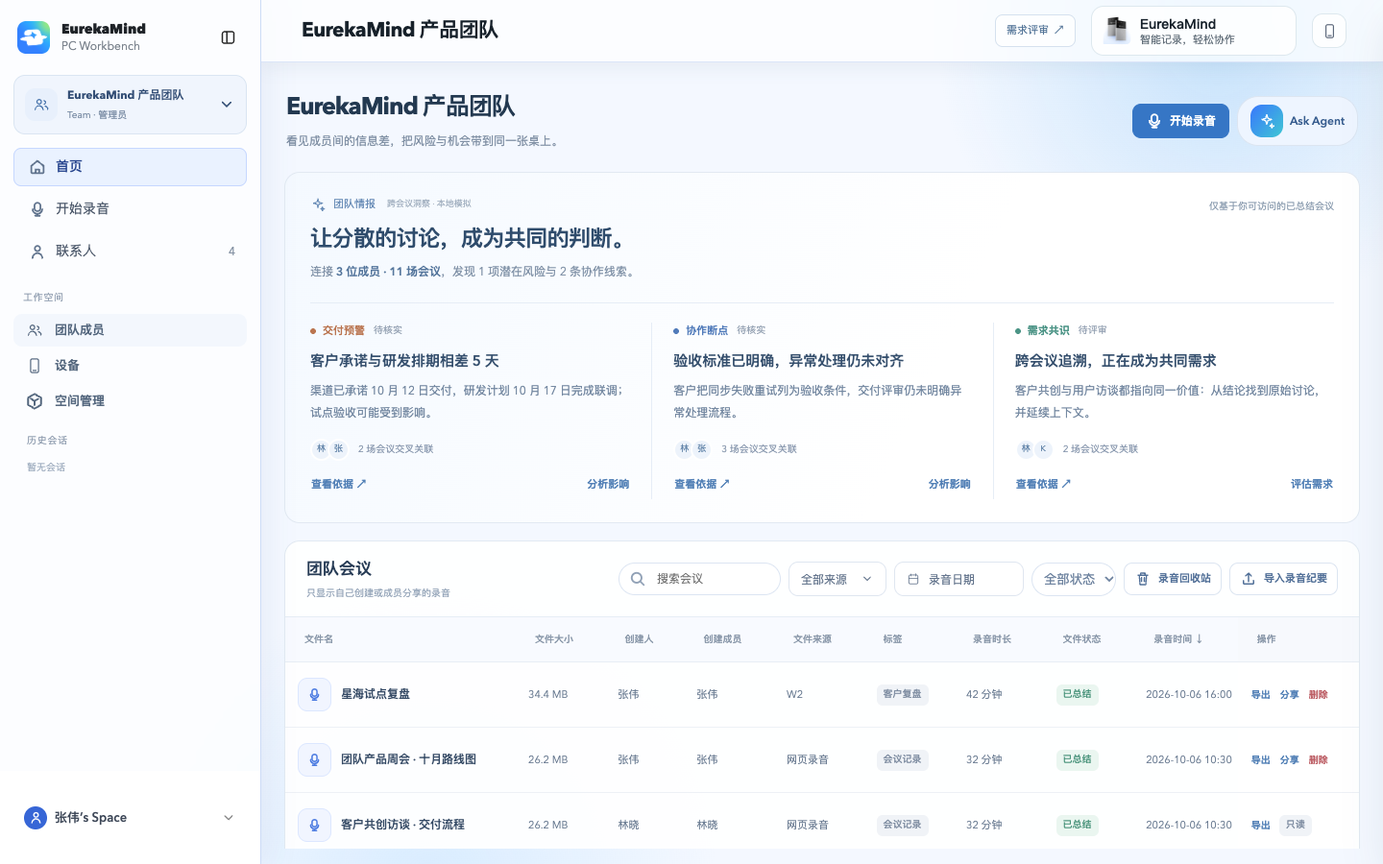
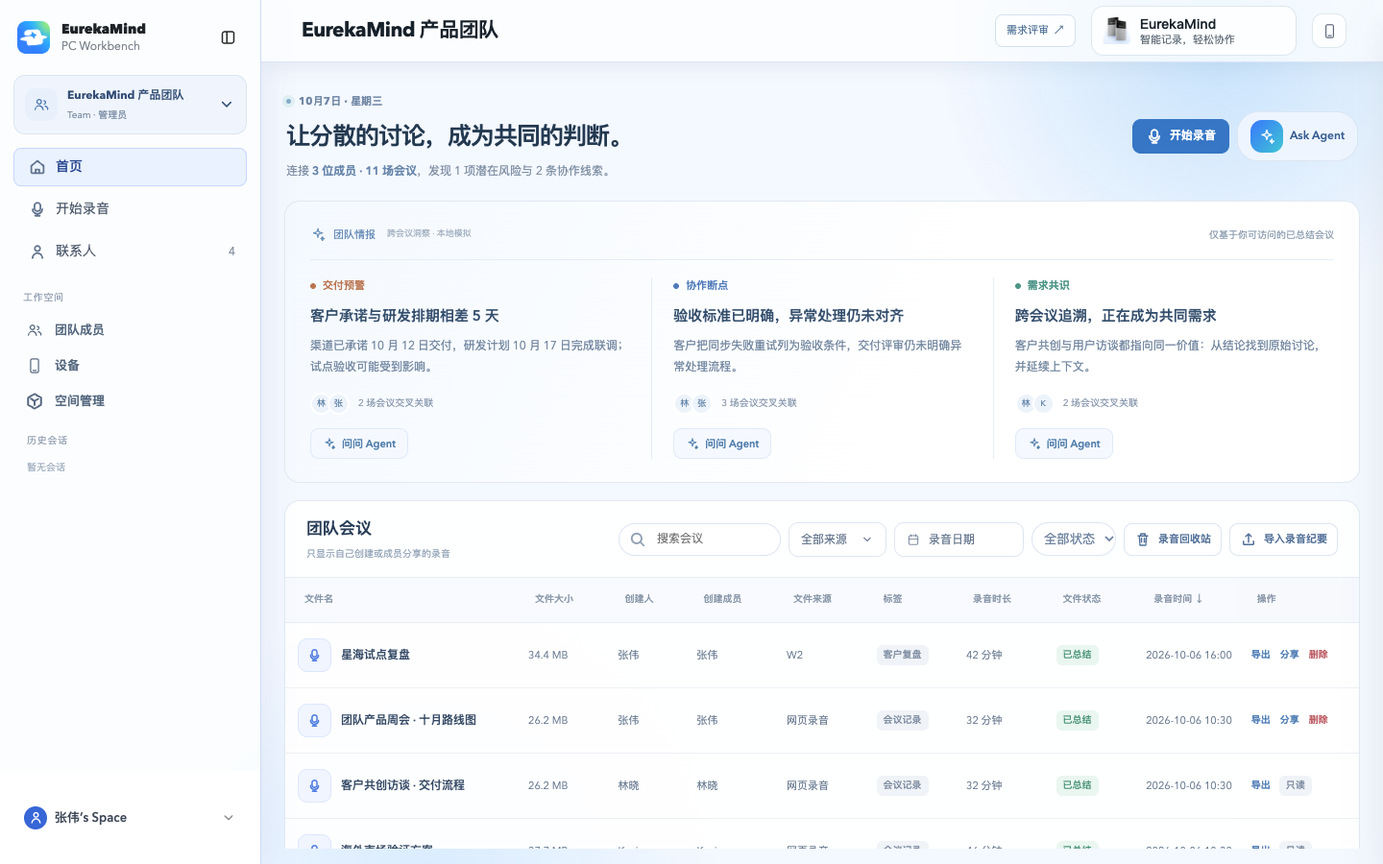
refine: simplify dated team home and unify contextual Agent entry

diff --git a/src/prototype/one-to-one-reference/assets/workspace-ui.js b/src/prototype/one-to-one-reference/assets/workspace-ui.js
@@ -13,7 +13,7 @@
   const btn=(action,label,cls='',value='',extra='')=>`<button type="button" class="ws-btn ${cls}" data-ws-action="${action}" data-value="${esc(value)}" ${extra}>${label}</button>`;
   const badge=(text,kind='')=>`<span class="ws-badge ${kind}">${esc(text)}</span>`;
   const empty=(title,text,action='')=>`<div class="ws-empty">${icon('folder')}<h3>${title}</h3><p>${text}</p>${action}</div>`;
-  let activeHistoryId=null;
+  let activeHistoryId=null,activeInsightId=null;
   let sourceFilter='all',dateFilter='',statusFilter='all',listPage=1,sortKey='created',sortAsc=false,recordingContext=null;
   let savedState=localStorage.getItem(M.KEY), deviceRegistration=null;
   const save=()=>{try{const next=JSON.stringify(data);localStorage.setItem(M.KEY,next);savedState=next;}catch{throw new Error('浏览器存储空间不足，请导出重要资料后重试');}};
@@ -56,7 +56,7 @@
     if(editing){confirm('退出编辑？','未保存的内容会丢失。',()=>{editing=false;switchSpace(uid);});return;}
     if(recordingContext&&!window.RecordingUI?.ended()){confirm('结束当前录音并切换？','尚未保存的演示录音会被放弃。',()=>{window.RecordingUI?.stop();recordingContext=null;switchSpace(uid);});return;}
     window.MeetingDetail?.leaveWorkspace();window.ContactsUI?.leaveWorkspace();
-    M.get(data,uid);mutate(()=>data.activeId=uid);actor=M.SELF;query='';sourceFilter='all';dateFilter='';statusFilter='all';listPage=1;selected=null;filter='all';answer='';draft='';agentOpen=false;activeHistoryId=null;closeMenu();chrome();
+    M.get(data,uid);mutate(()=>data.activeId=uid);actor=M.SELF;query='';sourceFilter='all';dateFilter='';statusFilter='all';listPage=1;selected=null;filter='all';answer='';draft='';agentOpen=false;activeHistoryId=null;activeInsightId=null;closeMenu();chrome();
     if(w().type==='personal'){root.hidden=true;showMainView('home',{silent:true});}else show('overview');
     toast(`已切换至${w().name}`);
   }
@@ -82,23 +82,19 @@
     const columns=filter==='trash'?['文件名','文件大小','文件来源','录音时间','删除时间','操作']:['文件名','文件大小','创建人','创建成员','文件来源','标签','录音时长','文件状态','录音时间','更新时间','操作'];
     return `<div class="ws-table-scroll ws-recording-scroll" role="region" aria-label="团队会议录音列表" tabindex="0"><table class="ws-table ws-recording-table"><thead><tr>${columns.map(t=>`<th>${['录音时间','更新时间'].includes(t)?btn('sort',t+(sortKey===(t==='录音时间'?'created':'updated')?(sortAsc?' ↑':' ↓'):''),'link',t==='录音时间'?'created':'updated'):t}</th>`).join('')}</tr></thead><tbody>${list.slice((listPage-1)*10,listPage*10).map(f=>`<tr><td>${filter==='trash'?esc(f.title):`<button class="ws-file-link" data-ws-action="file" data-value="${esc(f.id)}">${icon('mic')}<strong>${esc(f.title)}</strong></button>`}</td><td>${esc(f.size||'—')}</td>${filter==='trash'?`<td>${esc(f.source)}</td><td>${date(f.created)}</td><td>${date(f.deletedAt)}</td><td><div class="ws-actions">${btn('restore','恢复','link',f.id)}${btn('purge','永久删除','link danger',f.id)}</div></td>`:`<td>${esc(f.creator||userName(f.owner))}</td><td>${esc(userName(f.owner))}</td><td>${esc(f.source)}</td><td>${(f.tags||[]).map(t=>badge(t)).join(' ')}</td><td>${f.duration} 分钟</td><td>${badge(f.status||'已总结','green')}</td><td>${date(f.created)}</td><td>${date(f.updated||f.created)}</td><td><div class="ws-actions">${btn('export','导出','link',f.id)}${f.owner===actor?btn('share','分享','link',f.id)+btn('delete','删除','link danger',f.id):badge('只读')}</div></td>`}</tr>`).join('')}</tbody></table></div>${!list.length?empty(filter==='trash'?'回收站暂无内容':'没有符合条件的会议','调整筛选，或开始一场新的录音。'):''}<div class="ws-table-foot ws-pagination"><span>共 ${list.length} 个会议笔记 · ${listPage} / ${pages} 页</span><div class="ws-actions">${btn('list-prev','上一页','','',listPage<=1?'disabled':'')}${btn('list-next','下一页','','',listPage>=pages?'disabled':'')}</div></div>`;
   }
-  function teamIntelligence(){
-    const report=M.insights(w(),actor),items=report.items;
-    return `<section class="ws-meeting-intelligence ws-surface ws-team-intelligence" aria-label="团队情报"><header class="ws-intelligence-top"><div><div class="ws-intelligence-label">${icon('spark')} 团队情报 <span>跨会议洞察 · 本地模拟</span></div><h2>让分散的讨论，成为共同的判断。</h2><p>连接 <b>${report.members} 位成员 · ${report.meetings} 场会议</b>${items.length?'，发现 '+items.filter(i=>i.kind==='risk').length+' 项潜在风险与 '+items.filter(i=>i.kind!=='risk').length+' 条协作线索。':'，有足够的跨成员依据后，将在这里呈现团队线索。'}</p></div><span class="ws-insight-scope">仅基于你可访问的已总结会议</span></header>${items.length?`<div class="ws-insight-grid">${items.map(i=>`<article class="ws-insight-card ${i.kind}"><div class="ws-insight-category"><span>${i.label}</span><small>${i.kind==='opportunity'?'待评审':'待核实'}</small></div><h3>${esc(i.title)}</h3><p>${esc(i.description)}</p><div class="ws-insight-people">${[...new Set(i.sources.map(e=>e.owner))].map(uid=>`<span class="ws-insight-avatar" title="${esc(userName(uid))}">${esc(userName(uid).slice(0,1))}</span>`).join('')}<span>${i.sources.length} 场会议交叉关联</span></div><footer>${btn('insight-detail','查看依据 ↗','link',i.id)}${btn('meeting-prompt',i.kind==='opportunity'?'评估需求':'分析影响','link',i.title)}</footer></article>`).join('')}</div>`:`<div class="ws-insight-empty">尚无可交叉验证的团队线索。成员分享相关会议后，可连接不同视角；暂无预警不代表不存在风险。</div>`}</section>`;
-  }
-  function insightDetail(id){
-    const i=M.insights(w(),actor).items.find(x=>x.id===id);
-    if(!i)throw new Error('该线索的会议依据已变化，请刷新后查看');
-    modal(esc(i.title),`<div class="ws-insight-detail"><p class="ws-insight-category">${i.label} · ${i.kind==='opportunity'?'待评审':'待核实'} · 本地模拟</p><p>${esc(i.description)}</p><h3>跨会议依据</h3>${i.sources.map(e=>`<article class="ws-evidence"><div><strong>${esc(userName(e.owner))}</strong><time>${date(e.created)}</time></div><blockquote>${esc(e.quote)}</blockquote>${btn('file',esc(e.title)+' ↗','link',e.fileId)}</article>`).join('')}<h3>对团队的影响</h3><p>${esc(i.impact)}</p><h3>建议核实</h3><p>${esc(i.next)}</p><small>会议之间的差异需要人工核实；未推断成员是否已读，也未自动通知任何人。</small></div>`,btn('close-dialog','关闭')+btn('meeting-prompt','交给 Agent 分析','primary',i.title));
+  function teamIntelligence(report){
+    const items=report.items;
+    return `<section class="ws-meeting-intelligence ws-surface ws-team-intelligence" aria-label="团队情报"><header class="ws-intelligence-top"><div class="ws-intelligence-label">${icon('spark')} 团队情报 <span>跨会议洞察 · 本地模拟</span></div><span class="ws-insight-scope">仅基于你可访问的已总结会议</span></header>${items.length?`<div class="ws-insight-grid">${items.map(i=>`<article class="ws-insight-card ${i.kind}"><div class="ws-insight-category"><span>${i.label}</span></div><h3>${esc(i.title)}</h3><p>${esc(i.description)}</p><div class="ws-insight-people">${[...new Set(i.sources.map(e=>e.owner))].map(uid=>`<span class="ws-insight-avatar" title="${esc(userName(uid))}">${esc(userName(uid).slice(0,1))}</span>`).join('')}<span>${i.sources.length} 场会议交叉关联</span></div><footer>${btn('meeting-prompt',icon('spark')+'问问 Agent','ws-insight-ask',i.title,'aria-label="问问 Agent：'+esc(i.title)+'"')}</footer></article>`).join('')}</div>`:`<div class="ws-insight-empty">尚无可交叉验证的团队线索。成员分享相关会议后，可连接不同视角；暂无预警不代表不存在风险。</div>`}</section>`;
   }
   function overview(){
-    return heading(w().name,'看见成员间的信息差，把风险与机会带到同一张桌上。',btn('record',icon('mic')+'开始录音','primary')+btn('agent',`<span class="ws-agent-mark">${icon('spark')}</span>Ask Agent`,'agent'))+
-      (filter!=='trash'?teamIntelligence():'')+
+    const report=M.insights(w(),actor),now=new Date(),dayLabel=now.toLocaleDateString('zh-CN',{month:'long',day:'numeric'})+' · '+now.toLocaleDateString('zh-CN',{weekday:'long'});
+    return `<header class="ws-page-head ws-team-home-head"><div><span class="today-workbench-eyebrow ws-home-date"><i></i><time>${esc(dayLabel)}</time></span><h1>让分散的讨论，成为共同的判断。</h1><p>连接 <b>${report.members} 位成员 · ${report.meetings} 场会议</b>${report.items.length?'，发现 '+report.items.filter(i=>i.kind==='risk').length+' 项潜在风险与 '+report.items.filter(i=>i.kind!=='risk').length+' 条协作线索。':'，等待更多跨成员的会议线索。'}</p></div><div class="ws-actions">${btn('record',icon('mic')+'开始录音','primary')+btn('agent',`<span class="ws-agent-mark">${icon('spark')}</span>Ask Agent`,'agent')}</div></header>`+
+      (filter!=='trash'?teamIntelligence(report):'')+
       `<section class="ws-surface ws-recordings"><header class="ws-recording-head"><div><h2>${filter==='trash'?'录音回收站':'团队会议'}</h2><p>${filter==='trash'?'删除的录音可恢复，30 天后过期清理':'只显示自己创建或成员分享的录音'}</p></div><div class="ws-meeting-tools"><label class="ws-search">${icon('search')}<input id="ws-file-search" type="search" placeholder="搜索会议" aria-label="搜索团队会议" value="${esc(query)}"></label><div class="ws-filter-source"><select id="ws-meeting-source" aria-label="会议来源">${['all','网页录音','合并录音','M1','W1','W2','W-PEN','手动导入',...new Set(w().files.map(f=>f.source))].filter((x,i,a)=>a.indexOf(x)===i).map(v=>`<option value="${esc(v)}" ${sourceFilter===v?'selected':''}>${v==='all'?'全部来源':esc(v)}</option>`).join('')}</select></div><div class="ws-filter-date"><input id="ws-meeting-date" type="date" value="${dateFilter}" aria-label="录音日期"></div><select id="ws-meeting-status" aria-label="会议状态">${['all','已总结','处理中','待处理'].map(v=>`<option ${statusFilter===v?'selected':''} value="${v}">${v==='all'?'全部状态':v}</option>`).join('')}</select>${btn('recycle',filter==='trash'?'返回会议':icon('trash')+'录音回收站')}${filter!=='trash'?btn('import',icon('upload')+'导入录音纪要'):''}</div></header>${meetingTable()}</section>`;
   }
   function openMeeting(fid) {
     if(dialog.open)dialog.close();
-    M.getFile(w(),fid,actor);selected=fid;page='detail';agentOpen=false;activeHistoryId=null;
+    M.getFile(w(),fid,actor);selected=fid;page='detail';agentOpen=false;activeHistoryId=null;activeInsightId=null;
     const wid=w().id,uid=actor;
     const space=()=>{if(data.activeId!==wid||actor!==uid)throw new Error('工作空间或成员已改变');return M.get(data,wid);};
     window.MeetingDetail.openWorkspace({id:wid,list:()=>M.visible(space(),uid),speakers:()=>space().members.filter(m=>m.status==='active').map(m=>m.name),editable:id=>space().status==='active'&&M.getFile(space(),id,uid).owner===uid,save:(id,r)=>mutate(()=>M.saveDetail(space(),id,r,uid)),share:id=>{selected=id;action('share',id).catch(e=>toast(e.message));},remove:id=>action('delete',id).catch(e=>toast(e.message)),close:()=>show('overview'),ask:(id,open)=>{selected=id;agentOpen=open;mountMeetingAgent();}},fid);
@@ -128,7 +124,7 @@
   function settings(){M.govern(w(),actor);return heading('空间设置','名称、成员权限与隐私设置仅作用于当前工作空间。')+managementTabs()+`<form class="ws-surface ws-settings-form" data-ws-form="settings">${field('工作空间名称','name',w().name,'text','required maxlength="40"')}${field('公司所在地区','country',w().country,'text','disabled')}<p class="ws-muted">地区在创建时确定，后续保持不变。</p><div class="ws-info">${icon('users')} 文件默认私有，仅允许在当前工作空间内邀请成员访问。</div><p class="ws-form-error" role="alert"></p><button class="ws-btn primary" type="submit">保存设置</button></form><section class="ws-surface ws-settings-form"><h3>退出工作空间</h3><p>退出后将无法访问此空间。若你是唯一管理员，需要先指定另一位管理员。</p>${btn('leave','退出当前空间','danger')}</section>`;}
   function audit(){M.govern(w(),actor);return heading('活动记录','只记录空间管理操作，不向管理员暴露成员私有文件内容。')+managementTabs()+`<section class="ws-surface"><div class="ws-list">${w().audit.filter(l=>!l.action.match(/文件|私有/)).map(l=>`<div class="ws-list-row"><div><strong>${esc(l.action)}</strong><small>${esc(l.actor)}</small></div><time>${date(l.time)}</time></div>`).join('')||empty('暂无管理活动','创建、邀请、席位与设备变更会显示在这里。')}</div></section>`;}
   function contacts(){return heading('团队联系人','当前工作空间的合作关系与跟进记录。',btn('contact-add','添加联系人','primary'))+`<div class="ws-contact-grid">${(w().contacts||[]).map(c=>`<button class="ws-contact-card" data-ws-action="contact" data-value="${esc(c.id)}"><span class="ws-mini-avatar">${esc(c.name[0])}</span><h3>${esc(c.name)}</h3><small>${esc(c.company)} · ${esc(c.role)}</small><p>${esc(c.summary)}</p><span class="ws-link">查看与跟进 ↗</span></button>`).join('')||empty('暂时没有联系人','添加合作伙伴，建立当前团队独立的关系记录。')}</div>`;}
-  function agent(){return `<aside class="ws-agent" aria-label="Ask Agent"><header><div><span class="ws-agent-mark">${icon('spark')}</span><div><h2>Ask Agent</h2><p>${esc(w().name)}</p></div></div>${btn('agent-close',icon('x'),'ws-icon-button','','aria-label="收起 Agent"')}</header><div class="ws-agent-scroll"><span class="ws-eyebrow">仅引用当前空间已授权的内容</span><h3>${selected?'继续这场会议的工作':'让团队讨论有下一步'}</h3><p>整理关键结论、拆解行动项，或准备下一次沟通。</p><div class="ws-agent-prompts">${['整理待推进的行动项','为下次会议准备简报'].map(t=>btn('prompt',t,'',t)).join('')}</div>${w().threads.filter(t=>(!activeHistoryId||t.id===activeHistoryId)&&t.user===actor&&!t.contactId&&(!selected||(t.files||[]).includes(selected))&&(t.files||[]).every(id=>M.visible(w(),actor).some(f=>f.id===id))).slice(0,4).reverse().map(t=>`<div class="ws-chat-user">${esc(t.prompt)}</div><div class="ws-chat-answer">${esc(t.answer)}</div>`).join('')}${answer?`<div class="ws-chat-answer" role="status">${esc(answer)}</div>`:''}</div><form class="ws-composer" data-ws-form="ask"><textarea name="question" aria-label="向团队 Agent 提问" placeholder="输入问题，按 Enter 发送…">${esc(draft)}</textarea><div class="ws-composer-tools"><span>${icon('book')} 当前空间 · 快速</span><button class="ws-btn primary" type="submit" aria-label="发送问题">↑</button></div><small>本地模拟 · 200 积分 / 次</small><p class="ws-form-error" role="alert"></p></form></aside>`;}
+  function agent(){const insight=activeInsightId?M.insights(w(),actor).items.find(i=>i.id===activeInsightId):null;return `<aside class="ws-agent" aria-label="Ask Agent"><header><div><span class="ws-agent-mark">${icon('spark')}</span><div><h2>Ask Agent</h2><p>${esc(w().name)}</p></div></div>${btn('agent-close',icon('x'),'ws-icon-button','','aria-label="收起 Agent"')}</header><div class="ws-agent-scroll"><span class="ws-eyebrow">仅引用当前空间已授权的内容</span>${insight?`<div class="ws-agent-insight-context"><span>${esc(insight.label)}</span><h3>${esc(insight.title)}</h3><p>${esc(insight.description)}</p><div class="ws-agent-insight-sources">${insight.sources.map(e=>btn('file',icon('mic')+esc(e.title),'link',e.fileId)).join('')}</div></div>`:`<h3>${selected?'继续这场会议的工作':'让团队讨论有下一步'}</h3><p>整理关键结论、拆解行动项，或准备下一次沟通。</p><div class="ws-agent-prompts">${['整理待推进的行动项','为下次会议准备简报'].map(t=>btn('prompt',t,'',t)).join('')}</div>`}${w().threads.filter(t=>(!insight||t.prompt.includes(insight.title))&&(!activeHistoryId||t.id===activeHistoryId)&&t.user===actor&&!t.contactId&&(!selected||(t.files||[]).includes(selected))&&(t.files||[]).every(id=>M.visible(w(),actor).some(f=>f.id===id))).slice(0,4).reverse().map(t=>`<div class="ws-chat-user">${esc(t.prompt)}</div><div class="ws-chat-answer">${esc(t.answer)}</div>`).join('')}${answer?`<div class="ws-chat-answer" role="status">${esc(answer)}</div>`:''}</div><form class="ws-composer" data-ws-form="ask"><textarea name="question" aria-label="向团队 Agent 提问" placeholder="输入问题，按 Enter 发送…">${esc(draft)}</textarea><div class="ws-composer-tools"><span>${icon('book')} 当前空间 · 快速</span><button class="ws-btn primary" type="submit" aria-label="发送问题">↑</button></div><small>本地模拟 · 200 积分 / 次</small><p class="ws-form-error" role="alert"></p></form></aside>`;}
   function render(){
     if(w().type==='personal')refreshPersonal();
     let body;try{body=({overview,files,detail,members,devices,billing,credits,settings,audit,contacts}[page]||overview)();}catch(e){body=empty('此页面暂不可访问',esc(e.message),btn('page','返回团队首页','primary','overview'));}
@@ -170,8 +166,7 @@
     if(name==='recycle'){filter=filter==='trash'?'all':'trash';listPage=1;query='';return show('overview');}
     if(name==='sort'){sortAsc=sortKey===value?!sortAsc:false;sortKey=value;return render();}
     if(name==='list-prev'||name==='list-next'){listPage+=name==='list-prev'?-1:1;return render();}
-    if(name==='insight-detail')return insightDetail(value);
-    if(name==='meeting-prompt'){if(dialog.open)dialog.close();selected=null;activeHistoryId=null;agentOpen=true;draft=value;answer='';render();$('.ws-composer textarea')?.focus({preventScroll:true});return;}
+    if(name==='meeting-prompt'){if(dialog.open)dialog.close();selected=null;activeHistoryId=null;activeInsightId=M.insights(w(),actor).items.find(i=>i.title===value)?.id||null;agentOpen=true;draft=value;answer='';render();$('.ws-composer textarea')?.focus({preventScroll:true});return;}
     if(name==='purge'){confirm('永久删除录音？','永久删除后无法恢复，其他成员的访问也将失效。',()=>{mutate(()=>M.purge(w(),value,actor));render();});return;}
     if(name==='filter'){filter=value;return render();}
     if(name==='file'&&w().type==='team')return openMeeting(value);
@@ -206,8 +201,8 @@
 
     if(name==='sync'){const result=mutate(()=>M.sync(data,value,actor));render();toast(`已同步至${result.space.name}，新录音仅自己可见`);return;}
     if(name==='device-detail'){const d=data.devices.find(d=>d.id===value);modal(esc(d.name),`<dl class="ws-device-detail"><dt>序列号</dt><dd>${esc(d.serial)}</dd><dt>设备型号</dt><dd>${esc(d.model)}</dd><dt>绑定空间</dt><dd>${esc(M.get(data,d.spaceId).name)}</dd><dt>绑定成员</dt><dd>${esc(userName(d.user))}</dd><dt>同步说明</dt><dd>切换界面不会改变设备的录音同步位置。管理员仅可查看设备元数据。</dd></dl>`,btn('close-dialog','关闭'));return;}
-    if(name==='history'){show('overview');activeHistoryId=value;agentOpen=true;draft='';answer='';render();$('.ws-composer textarea')?.focus({preventScroll:true});return;}
-    if(name==='agent'){activeHistoryId=null;agentOpen=true;answer='';return render();}
+    if(name==='history'){activeInsightId=null;show('overview');activeHistoryId=value;agentOpen=true;draft='';answer='';render();$('.ws-composer textarea')?.focus({preventScroll:true});return;}
+    if(name==='agent'){activeInsightId=null;activeHistoryId=null;agentOpen=true;answer='';return render();}
     if(name==='agent-close'){agentOpen=false;return page==='detail'?mountMeetingAgent():render();}
     if(name==='prompt'){draft=value;if(page==='detail')mountMeetingAgent();else render();$('.ws-composer textarea')?.focus({preventScroll:true});return;}
     if(name==='leave'){if(actor!==M.SELF)throw new Error('请先切回自己的视角，再退出工作空间');confirm('退出工作空间？','退出后你将无法访问此空间的文件。个人空间不受影响。',()=>{mutate(()=>{const m=M.member(w(),M.SELF);if(m.role==='admin'&&w().members.filter(x=>x.status==='active'&&x.role==='admin').length===1)throw new Error('请先指定另一位管理员');m.status='removed';data.devices.filter(d=>d.spaceId===w().id&&d.user===M.SELF).forEach(d=>d.spaceId=null);});switchSpace('personal');});return;}
@@ -232,7 +227,7 @@
       dialog.close();render();toast(`设备 ${device.model} 已录入并绑定至 ${userName(device.user)}`);return;
     }
     if(kind==='bind')mutate(()=>M.bind(data,v.device,w().id,actor));
-    if(kind==='ask'){const result=mutate(()=>M.ask(w(),v.question,selected,actor));draft='';answer=result.cost?'':result.answer;activeHistoryId=null;if(page==='detail')mountMeetingAgent();else render();return;}
+    if(kind==='ask'){const context=activeInsightId?M.insights(w(),actor).items.find(i=>i.id===activeInsightId):null;const question=context&&String(v.question).trim()&&!v.question.includes(context.title)?context.title+'：'+v.question:v.question;const result=mutate(()=>M.ask(w(),question,selected,actor));draft='';answer=result.cost?'':result.answer;activeHistoryId=null;if(page==='detail')mountMeetingAgent();else render();return;}
     if(kind==='contact')mutate(()=>{M.writable(w());(w().contacts||=[]).push({id:M.id('contact'),...v});});
     if(kind==='contact-update')mutate(()=>{M.writable(w());w().contacts.find(c=>c.id===v.id).summary=v.summary;});
     dialog.close();if(page==='detail'&&w().type==='team')openMeeting(selected);else render();toast('已保存');
@@ -240,7 +235,7 @@
   document.addEventListener('click',e=>{const b=e.target.closest('[data-ws-action]');if(!b){if(!menu.hidden&&!menu.contains(e.target))closeMenu();return;}e.preventDefault();action(b.dataset.wsAction,b.dataset.value,b).catch(err=>{const error=dialog.open?$('.ws-form-error',dialog):null;if(error)error.textContent=err.message;else toast(err.message);});});
   document.addEventListener('submit',e=>{const form=e.target.closest('[data-ws-form]');if(!form)return;e.preventDefault();const submitButton=form.querySelector('[type=submit]');if(submitButton?.disabled)return;if(submitButton)submitButton.disabled=true;formAction(form).catch(err=>{$('.ws-form-error',form).textContent=err.message;}).finally(()=>{if(submitButton)submitButton.disabled=false;});});
   document.addEventListener('input',e=>{if(e.target.id==='ws-file-search'){query=e.target.value;listPage=1;const pos=e.target.selectionStart;render();const input=$('#ws-file-search');input.focus({preventScroll:true});input.setSelectionRange(pos,pos);}if(e.target.matches('.ws-composer textarea'))draft=e.target.value;if(e.target.id==='ws-editor')noteDraft=e.target.value;});
-  root.addEventListener('change',e=>{if(e.target.id==='ws-meeting-source'||e.target.id==='ws-meeting-date'||e.target.id==='ws-meeting-status'){if(e.target.id==='ws-meeting-source')sourceFilter=e.target.value;else if(e.target.id==='ws-meeting-date')dateFilter=e.target.value;else statusFilter=e.target.value;listPage=1;render();return;}if(e.target.id==='ws-actor'){actor=e.target.value;selected=null;editing=false;answer='';draft='';agentOpen=false;show('overview');toast('已切换演示视角，内容按此成员的权限展示');}});
+  root.addEventListener('change',e=>{if(e.target.id==='ws-meeting-source'||e.target.id==='ws-meeting-date'||e.target.id==='ws-meeting-status'){if(e.target.id==='ws-meeting-source')sourceFilter=e.target.value;else if(e.target.id==='ws-meeting-date')dateFilter=e.target.value;else statusFilter=e.target.value;listPage=1;render();return;}if(e.target.id==='ws-actor'){activeInsightId=null;actor=e.target.value;selected=null;editing=false;answer='';draft='';agentOpen=false;show('overview');toast('已切换演示视角，内容按此成员的权限展示');}});
   document.addEventListener('keydown',e=>{if(e.target.matches('.ws-composer textarea')&&e.key==='Enter'&&!e.shiftKey&&!e.isComposing){e.preventDefault();e.target.form.requestSubmit();}});
   document.addEventListener('keydown',e=>{if(e.key==='Escape')closeMenu();});
   window.addEventListener('click',e=>{

diff --git a/tests/e2e/team-recording-parity.spec.ts b/tests/e2e/team-recording-parity.spec.ts
@@ -76,26 +76,32 @@ test('meeting Agent remains reachable at laptop sizes and history restores the s
   await page.locator('#ws-history button').filter({hasText:'继续团队会议决策整理'}).click();await expect(page.locator('#ws-view .ws-chat-user')).toHaveText('继续团队会议决策整理');await expect(page.locator('#ws-view .ws-composer textarea')).toBeInViewport({ratio:1});
 });
 
-test('team intelligence connects members, cites evidence and continues the exact issue in Agent',async({page})=>{
+test('team intelligence has one dated heading and one contextual Agent action per insight',async({page})=>{
+  await page.clock.setFixedTime(new Date('2026-10-07T12:00:00Z'));await page.reload();
+  await expect(page.locator('.ws-home-date')).toHaveText('10月7日 · 星期三');
+  await expect(page.locator('.ws-team-home-head h1')).toHaveText('让分散的讨论，成为共同的判断。');
+  await expect(page.locator('.ws-team-intelligence h2')).toHaveCount(0);
   await expect(page.locator('.ws-insight-card')).toHaveCount(3);
+  await expect(page.locator('.ws-team-home-head')).toContainText('3 位成员 · 11 场会议');
+  await expect(page.locator('.ws-team-intelligence')).not.toContainText(/待核实|待评审|查看依据|分析影响|评估需求/);
+  await expect(page.locator('.ws-insight-card button')).toHaveCount(3);
   if(process.env.PRD_CAPTURE){await page.setViewportSize({width:1440,height:900});await expect(page.locator('#ws-toast')).toBeHidden();await page.screenshot({path:'src/prototype/prd/images/team.png'});}
-  await expect(page.locator('.ws-intelligence-top')).toContainText('3 位成员 · 11 场会议');
-  await expect(page.locator('.ws-insight-card.risk')).toContainText('相差 5 天');
-  await act(page,'insight-detail','delivery-risk').click();
-  await expect(page.locator('.ws-evidence')).toHaveCount(2);
-  if(process.env.PRD_CAPTURE)await page.screenshot({path:'src/prototype/prd/images/team-insight-evidence.png'});
-  await expect(page.locator('#ws-dialog')).toContainText('林晓');await expect(page.locator('#ws-dialog')).toContainText('张伟');
-  await expect(page.locator('#ws-dialog')).toContainText('10 月 12 日');await expect(page.locator('#ws-dialog')).toContainText('10 月 17 日');
-  await page.locator('#ws-dialog [data-ws-action=meeting-prompt]').click();
-  await expect(page.locator('#ws-dialog')).not.toBeVisible();await expect(page.locator('.ws-composer textarea')).toHaveValue('客户承诺与研发排期相差 5 天');
-  await page.locator('.ws-composer button[type=submit]').click();await expect(page.locator('#ws-view .ws-chat-answer').last()).toContainText('会议依据');await expect(page.locator('#ws-view .ws-chat-answer').last()).toContainText('渠道合作沟通');
-  await act(page,'agent-close').click();await act(page,'insight-detail','customer-pattern').click();
-  await page.locator('#ws-dialog [data-ws-action=file][data-value=team-demo-research]').click();await expect(page.locator('#meeting-detail-root')).toContainText('语音记录用户访谈');
+  await page.locator('.ws-insight-card.risk button').click();
+  await expect(page.locator('#ws-dialog')).not.toBeVisible();await expect(page.locator('.ws-layout')).toHaveClass(/with-agent/);
+  await expect(page.locator('.ws-composer textarea')).toHaveValue('客户承诺与研发排期相差 5 天');
+  await expect(page.locator('.ws-agent-insight-context')).toContainText('渠道合作沟通');
+  await expect(page.locator('.ws-agent-insight-context')).toContainText('研发迭代排期确认');
+  if(process.env.PRD_CAPTURE)await page.screenshot({path:'src/prototype/prd/images/team-insight-agent.png'});
+  await page.locator('.ws-composer button[type=submit]').click();await expect(page.locator('#ws-view .ws-chat-answer').last()).toContainText('会议依据');await expect(page.locator('#ws-view .ws-chat-answer').last()).toContainText('10 月 17 日');
+  await page.locator('.ws-composer textarea').fill('具体需要哪些人对齐？');await page.locator('.ws-composer button[type=submit]').click();await expect(page.locator('#ws-view .ws-chat-answer').last()).toContainText('渠道合作沟通');
+  await act(page,'agent-close').click();await expect(page.locator('.ws-layout')).not.toHaveClass(/with-agent/);
+  await page.locator('.ws-insight-card.opportunity button').click();await expect(page.locator('.ws-agent-insight-context')).toContainText('跨会议追溯');
+  await page.locator('.ws-agent-insight-sources [data-value=team-demo-research]').click();await expect(page.locator('#meeting-detail-root')).toContainText('语音记录用户访谈');
   await page.locator('#home-entry').click();
   for(const [width,height] of [[1920,1080],[1366,768],[1280,650]]){
     await page.setViewportSize({width,height});expect(await page.locator('.main').evaluate(el=>el.scrollWidth-el.clientWidth)).toBeLessThan(3);
+    await page.locator('.ws-insight-card.gap button').click();await expect(page.locator('.ws-composer textarea')).toBeInViewport({ratio:1});await act(page,'agent-close').click();
   }
-  await page.setViewportSize({width:1440,height:1000});await page.screenshot({path:'/tmp/eureka-team-insights.png',fullPage:false});
   await page.evaluate(()=>{const key='eureka:workspaces:v2',s=JSON.parse(localStorage.getItem(key)!);s.spaces.find((w:{id:string})=>w.id==='team-eureka').files.find((f:{id:string})=>f.id==='team-demo-sales').shared=[];localStorage.setItem(key,JSON.stringify(s));});
   await page.reload();await expect(page.locator('.ws-insight-card.risk')).toHaveCount(0);
   await switchTo(page,'team-design');await expect(page.locator('.ws-insight-empty')).toContainText('尚无可交叉验证');await expect(page.locator('#ws-view')).not.toContainText('相差 5 天');

diff --git a/src/prototype/one-to-one-reference/assets/workspace-ui.css b/src/prototype/one-to-one-reference/assets/workspace-ui.css
@@ -40,7 +40,10 @@ html[data-sidebar-collapsed=true] .ws-space-copy,html[data-sidebar-collapsed=tru
 .ws-insight-card{display:flex;flex-direction:column;min-width:0;padding:0 22px;border-left:1px solid #e6edf6}.ws-insight-card:first-child{border-left:0;padding-left:0}.ws-insight-card:last-child{padding-right:0}
 .ws-insight-category{display:flex;align-items:center;gap:9px;font-size:11px;font-weight:550;color:#517bba}.ws-insight-category>span:before{content:'';display:inline-block;width:6px;height:6px;border-radius:50%;background:currentColor;margin-right:7px}.ws-insight-category small{font-size:10px;font-weight:400;color:#95a2b3}.risk .ws-insight-category{color:#ba7550}.opportunity .ws-insight-category{color:#4c9486}
 .ws-insight-card h3{font-size:15px;line-height:1.6;color:#354f6d;margin:11px 0 8px;font-weight:600}.ws-insight-card>p{font-size:12px;line-height:1.85;margin:0 0 16px;color:#7488a1}.ws-insight-people{margin-top:auto;display:flex;align-items:center;gap:4px;font-size:10px;color:#8b9ab0}.ws-insight-people>span:last-child{margin-left:5px}.ws-insight-avatar{display:inline-flex;align-items:center;justify-content:center;background:#edf3fb;border:2px solid white;width:23px;height:23px;border-radius:50%;font-size:9px;color:#6183a8}.ws-insight-avatar+.ws-insight-avatar{margin-left:-9px}.ws-insight-card footer{display:flex;justify-content:space-between;gap:6px;margin-top:10px}.ws-insight-card footer .ws-btn{font-size:11px;min-height:30px;padding:5px 0}.ws-insight-card footer .ws-btn:hover{color:#2465b4;text-decoration:underline}.ws-insight-empty{padding:20px 0 6px;color:#7e91a8;font-size:13px;line-height:1.8}
-.ws-insight-detail{color:#617892;font-size:13px;line-height:1.85}.ws-insight-detail h3{color:#344f6c;font-size:14px;margin:22px 0 10px}.ws-insight-detail small{color:#91a0b3}.ws-evidence{padding:15px 17px;border:1px solid #e2ebf5;border-radius:12px;background:#f9fbfe;margin:10px 0}.ws-evidence>div{display:flex;justify-content:space-between;gap:12px;font-size:11px}.ws-evidence time{color:#93a1b4}.ws-evidence blockquote{margin:10px 0;border-left:2px solid #b9d1ee;padding-left:12px;color:#4a637f}.ws-evidence .ws-btn{font-size:11px;white-space:normal;text-align:left;padding-left:0}
 .ws-layout.with-agent .ws-insight-grid{grid-template-columns:1fr}.ws-layout.with-agent .ws-insight-card{padding:16px 0;border-left:0;border-top:1px solid #e6edf6}.ws-layout.with-agent .ws-insight-card:first-child{border-top:0;padding-top:0}.ws-layout.with-agent .ws-intelligence-top{display:block}.ws-layout.with-agent .ws-insight-scope{display:block;margin-top:8px}
 @media(max-width:1100px){.ws-intelligence-top{display:block}.ws-insight-scope{display:block;margin-top:8px}.ws-insight-card{padding:0 14px}.ws-intelligence-top h2{font-size:21px}}
 @media(max-width:800px){.ws-insight-grid{grid-template-columns:1fr}.ws-insight-card,.ws-insight-card:first-child,.ws-insight-card:last-child{padding:16px 0;border-left:0;border-top:1px solid #e6edf6}.ws-insight-card:first-child{border-top:0;padding-top:0}.ws-team-intelligence.ws-meeting-intelligence{padding:20px}}
+
+.ws-team-home-head .ws-home-date{display:inline-flex;margin-bottom:10px;font-size:11px;color:#7188a5;gap:8px}.ws-home-date i{display:block;width:5px;height:5px;border-radius:50%;background:#86accb}.ws-team-home-head h1{font-size:25px;font-weight:650;line-height:1.45}.ws-team-home-head p{font-size:12px}.ws-team-home-head p b{font-weight:550;color:#6685a9}.ws-team-home-head .ws-actions{align-self:center;flex-shrink:0}.ws-team-intelligence .ws-intelligence-top{margin-bottom:16px;align-items:center}.ws-team-intelligence .ws-insight-grid{padding-top:18px}.ws-insight-card footer{justify-content:flex-start;margin-top:14px}.ws-insight-card footer .ws-insight-ask{display:inline-flex;gap:6px;align-items:center;border:1px solid #e0eafa;background:#f5f9ff;color:#527fac;border-radius:9px;padding:7px 12px;font-size:11px;min-height:32px}.ws-insight-card footer .ws-insight-ask:hover{background:#eaf2ff;text-decoration:none;border-color:#bdd3ef}.ws-insight-ask .ws-icon{width:14px;height:14px}
+.ws-agent-insight-context{margin-top:20px;padding:16px;border:1px solid #e1eaf7;background:#f7faff;border-radius:13px}.ws-agent-insight-context>span{font-size:10px;color:#7592b6}.ws-agent-insight-context h3{font-size:17px;line-height:1.6;margin:8px 0}.ws-agent-insight-context p{font-size:12px;color:#7890a9;line-height:1.8}.ws-agent-insight-sources{display:grid;gap:5px;margin-top:12px}.ws-agent-insight-sources .ws-btn{font-size:10px;justify-content:flex-start;white-space:normal;text-align:left;padding:5px 0}.ws-agent-insight-sources .ws-icon{flex-shrink:0;width:13px;height:13px}
+@media(max-width:1100px){.ws-team-home-head h1{font-size:22px}.ws-team-home-head{flex-wrap:wrap}}

diff --git a/src/prototype/one-to-one-reference/assets/workspace-model.js b/src/prototype/one-to-one-reference/assets/workspace-model.js
@@ -137,7 +137,7 @@
     const excerpts=files.map((f,i)=>`${i+1}. 「${f.title}」\n${f.summary.split('\n').filter(Boolean)[0].slice(0,300)}`).join('\n\n');
     const label=/对比|决策/.test(prompt)?'会议决策对照':/客户|反馈/.test(prompt)?'客户反馈摘要':/简报|总结/.test(prompt)?'团队会议简报':'会议上下文与下一步';
     const next=/对比|决策/.test(prompt)?'以上按来源并列展示会议结论；未在纪要中明确的差异与负责人，需要回到原录音确认。':/客户|反馈/.test(prompt)?'建议在下次沟通前，逐项确认客户提出的问题、对应方案和验收口径。':'建议围绕上述结论，确认负责人、交付范围与仍待澄清的问题。';
-    const answer=insight?`${insight.label} · 待核实\n${insight.title}\n\n${insight.description}\n\n会议依据\n${insight.sources.map(e=>`「${e.title}」 · ${w.members.find(m=>m.id===e.owner)?.name||e.owner}\n${e.quote}`).join("\n\n")}\n\n建议核实\n${insight.next}\n\n以上为跨会议线索，不代表已确认风险或已通知成员。仅引用当前授权资料；本地模拟。`:`${label}\n\n${excerpts}\n\n${next}\n\n引用 ${files.length} 份已授权资料；此结果为本地模拟。`;
+    const answer=insight?`${insight.label}\n${insight.title}\n\n${insight.description}\n\n会议依据\n${insight.sources.map(e=>`「${e.title}」 · ${w.members.find(m=>m.id===e.owner)?.name||e.owner}\n${e.quote}`).join("\n\n")}\n\n建议核实\n${insight.next}\n\n以上为跨会议线索，不代表已确认风险或已通知成员。仅引用当前授权资料；本地模拟。`:`${label}\n\n${excerpts}\n\n${next}\n\n引用 ${files.length} 份已授权资料；此结果为本地模拟。`;
     w.credits.used+=200;w.credits.logs.unshift({id:id('usage'),user:uid,task:prompt.slice(0,80),amount:200,time:stamp()});
     w.threads.unshift({id:id('chat'),user:uid,prompt,answer,time:stamp(),files:files.map(f=>f.id)});return {answer,cost:200};
   }
